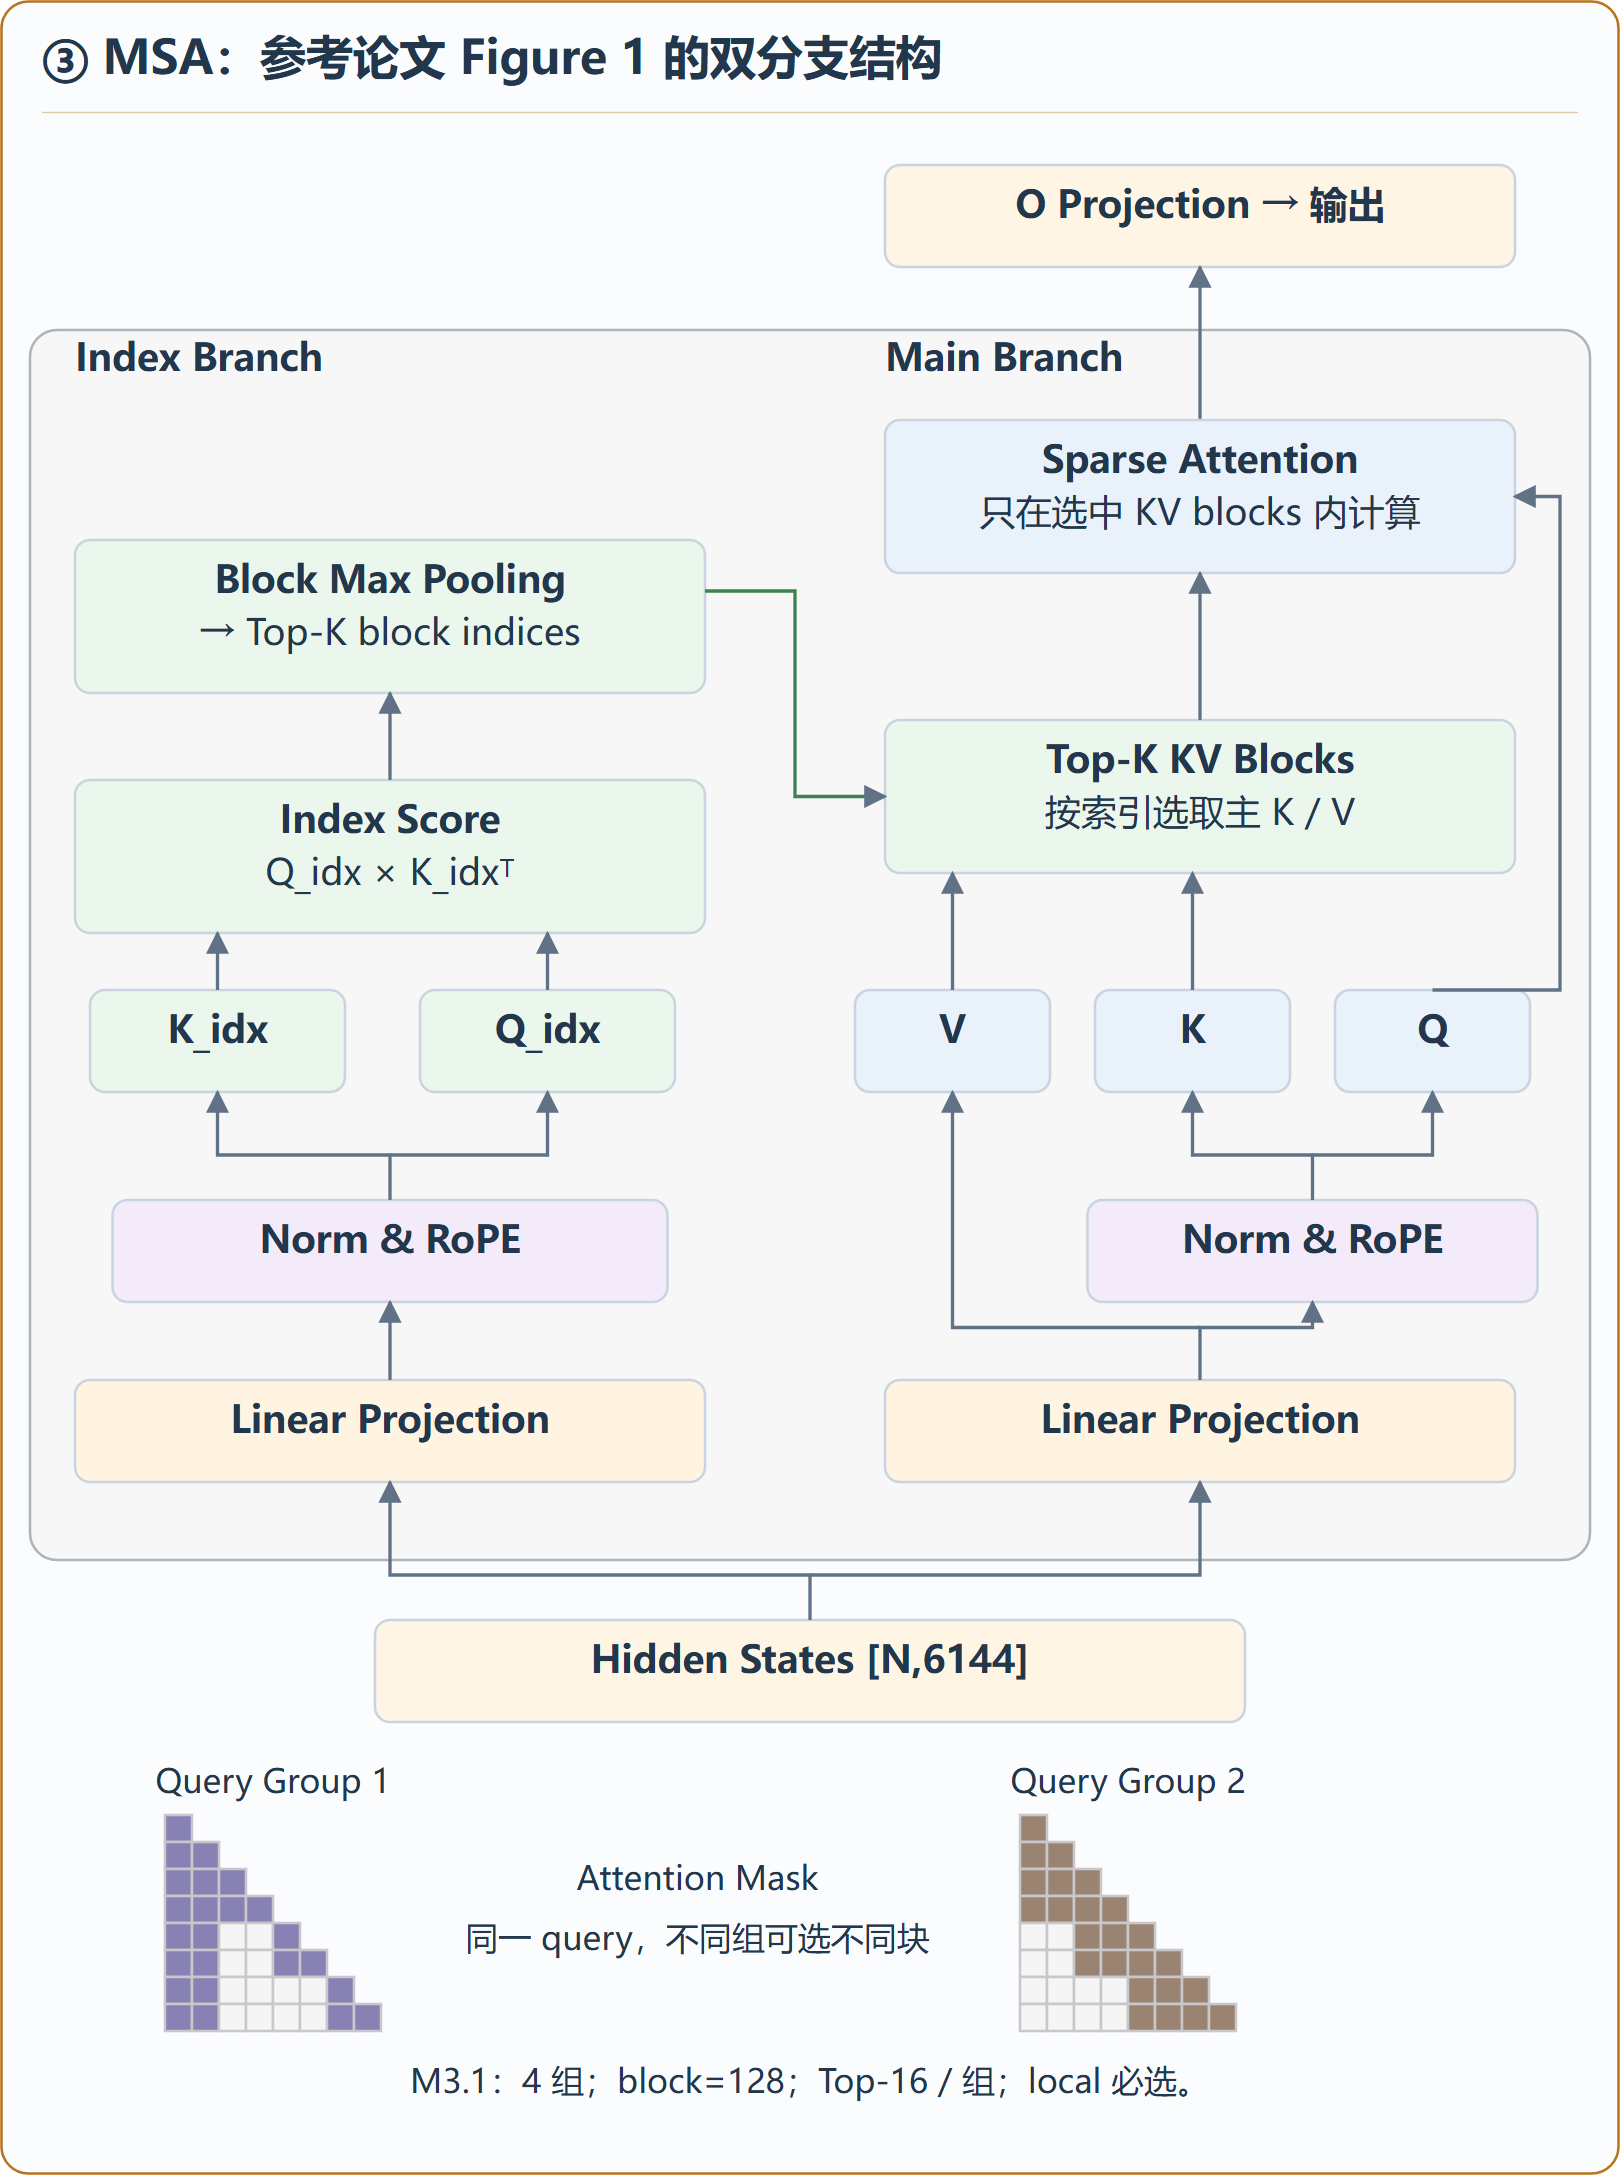
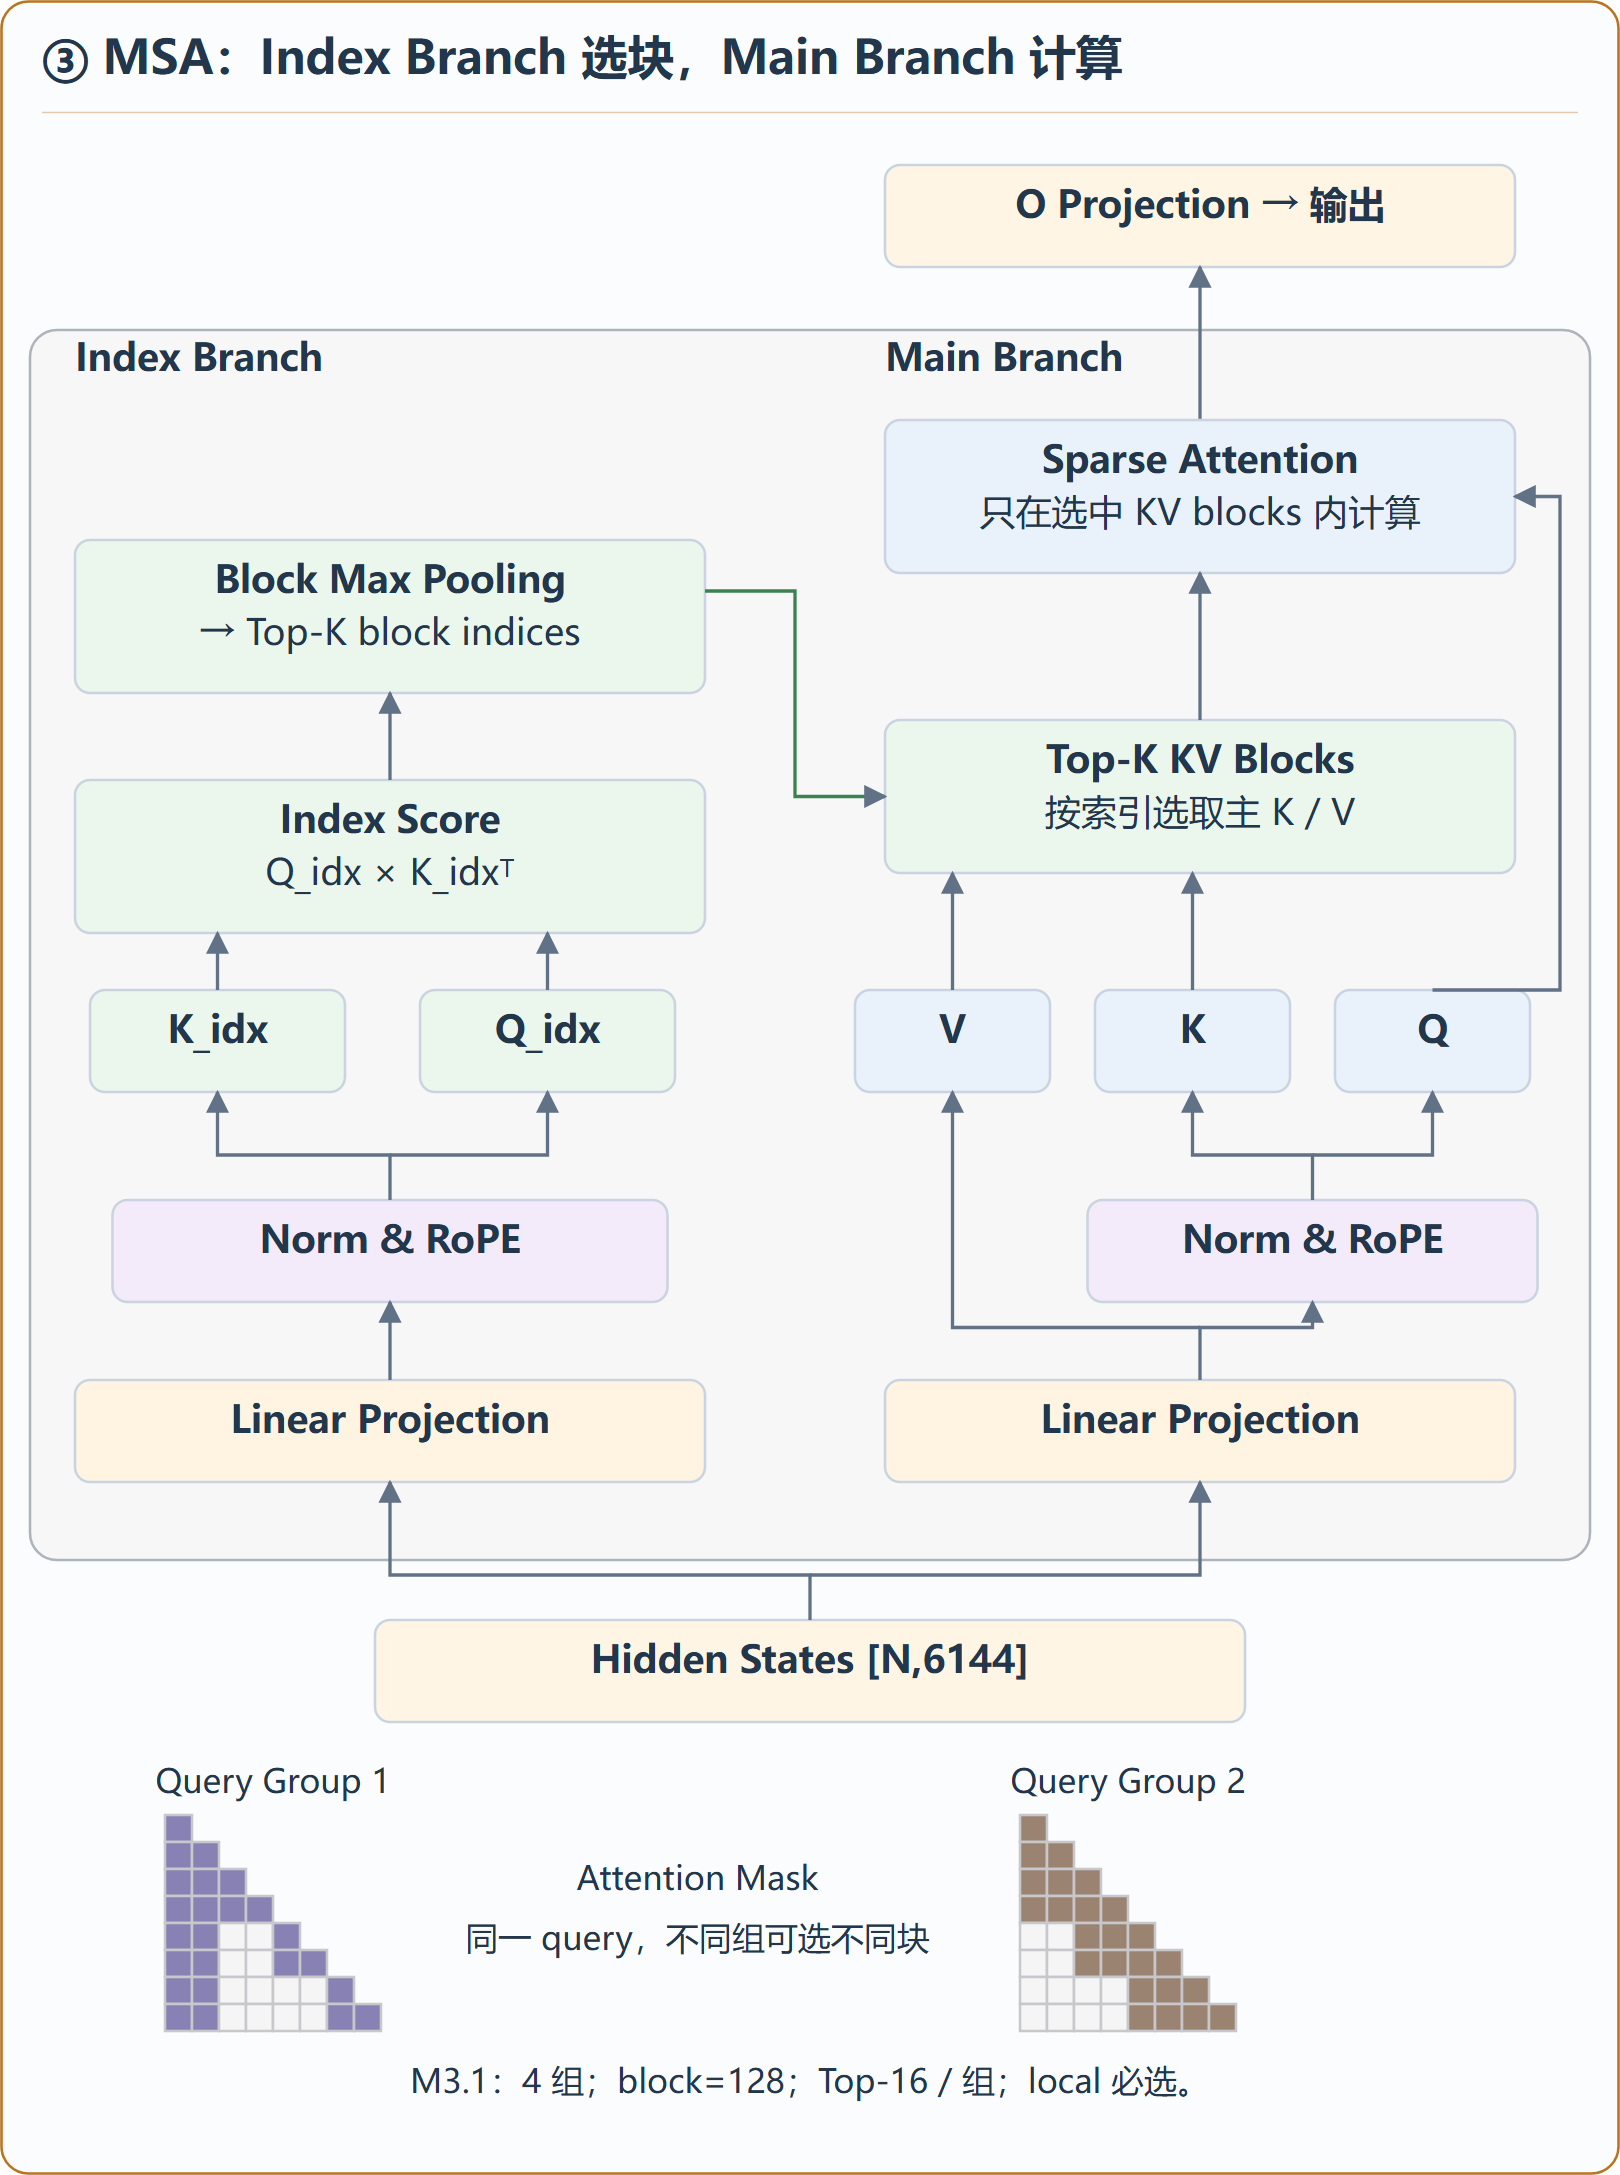
docs: add standalone MSA DSA comparison with explicit index branches

Changed region(s): [[0.1543, 0.0, 0.7099, 0.0616]]

diff --git a/minimax/minimax-m31-flash/architecture/draw_attention_comparison.py b/minimax/minimax-m31-flash/architecture/draw_attention_comparison.py
@@ -1,0 +1,92 @@
+"""Standalone DSA/MSA comparison with explicit Index and Main branches."""
+
+import json
+from pathlib import Path
+from diagram_primitives import Plate,STYLE
+
+ROOT=Path(__file__).resolve().parent
+W,H=2800,2250
+
+def panel(msa):
+    name='MSA / MiniMax-M3.1' if msa else 'DSA / DeepSeek-V3.2'
+    p=Plate(name,1300,1880,name,'orange' if msa else 'blue')
+    p.box(70,110,1160,[
+        'Main Branch：在选中的历史位置上计算 attention',
+        'GQA：每组 Q heads 使用各自选中的块' if msa else 'MLA / MQA：同一 query 的所有 Q heads 使用同一组选点',
+        '同组共享选块结果，不同组可以不同' if msa else '共享索引集合，不表示各 Q heads 的 attention 权重相同'],137)
+    p.rect(35,285,1230,1080,'#ffffff','#b7c2cf',14)
+    p.items[-1]=p.items[-1].replace('stroke-width="1.7"','stroke-width="1.7" stroke-dasharray="8 6"')
+    p.text(60,325,'Index Branch','node')
+    p.rect(70,355,1160,550,'#fbfcfe','#d0d8e2',10)
+    p.text(650,405,'选择单位：整个 block' if msa else '选择单位：单个 token','node','middle')
+    p.text(650,450,'示意采用相同预算：每个 Q head 最终读取 4 个历史位置','small','middle')
+    for row,y in enumerate([530,685]):
+        label=f'GQA组{row}' if msa else ('head 0' if row==0 else 'head 1…')
+        p.text(85,y+36,label,'small')
+        p.items[-1]=p.items[-1].replace('<text ','<text data-max-width="100" ')
+        selected=({2,3,8,9} if row==0 else {0,1,8,9}) if msa else {1,4,7,10}
+        color=('#dfb56e' if row==0 else '#a8bb8a') if msa else '#93b4d0'
+        if msa:
+            for block in range(6):
+                x=184+block*164
+                p.rect(x,y-12,152,86,'#ffffff','#98a4b5',8)
+                p.text(x+76,y+95,f'B{block}','small','middle')
+        for pos in range(12):
+            x=190+pos*82
+            p.rect(x,y,64,56,color if pos in selected else '#edf0f4')
+            p.text(x+32,y+36,f'{pos:02}','small','middle')
+    p.text(650,845,'每组各选 2 块 × 每块 2 token（教学示意）' if msa else '两行选中相同位置：一组 token 索引由各 Q heads 共用','small','middle')
+    p.arrow([(650,355),(650,247)])
+    p.box(230,1000,840,[
+        '每组独立评分 → 块内 Max Pooling' if msa else '多索引头点积 → ReLU → 加权聚合',
+        '先算 index Q · index K，再对块内位置取最大值' if msa else 'query 相关的权重把各索引头合成一个 token 分数',
+        '得到“每组、每历史块”的分数' if msa else '得到“每个历史 token”的一个分数'],137)
+    p.arrow([(650,1000),(650,905)])
+    p.text(685,965,'Top-K blocks' if msa else 'Top-K tokens','small')
+    p.box(230,1190,840,[
+        '独立 index Q/K 投影 → Norm & RoPE' if msa else 'Index Q/K 投影 + query 相关的 head weights',
+        'M3.1：4 个 index Q heads，共享 1 个 index K head' if msa else '多个索引头参与评分，随后聚合成一组选择结果'],102)
+    p.arrow([(650,1190),(650,1137)])
+    p.box(230,1480,840,['当前 query 的 hidden state + 历史上下文'],68)
+    p.arrow([(650,1480),(650,1292)])
+    p.box(70,1640,1160,[
+        '结构特点：按块、按 GQA 组选择' if msa else '结构特点：细粒度 token 选择',
+        'M3.1 实际配置：4 个组，每组 Top-16 个 128-token 块；local 必选。' if msa else '本图对比 V3.2 的 DSA：同一 query 共用一组 Top-K token 索引。',
+        '每块整段读取；不同组能够关注不同的历史区域。' if msa else '允许从不同历史区域挑出分散的单个 token。'],137,'#f3f6fa')
+    return p
+
+left,right=panel(False),panel(True)
+svg=[f'<svg xmlns="http://www.w3.org/2000/svg" width="{W}" height="{H}" viewBox="0 0 {W} {H}">',
+     f'<rect width="{W}" height="{H}" fill="white"/>',STYLE,
+     '<text x="1400" y="65" class="title" text-anchor="middle">DSA 与 MSA：Index Branch 到底选什么、由谁共享？</text>',
+     '<text x="1400" y="115" class="body" text-anchor="middle">自下向上：输入 → 独立索引评分 → Top-K 选择 → Main Branch；数字是历史位置编号</text>',
+     '<g transform="translate(60,170)">'+''.join(left.items)+'</g>',
+     '<g transform="translate(1440,170)">'+''.join(right.items)+'</g>',
+     '<text x="1400" y="2120" class="body" text-anchor="middle">共同点：两者都有 Index Branch；主注意力只在选中位置计算。区别：token / block，以及跨全部头共享 / 按 GQA 组共享。</text>',
+     '<text x="1400" y="2180" class="small" text-anchor="middle">图中 12 个历史位置、2-token 块和 4 个位置的预算仅用于等预算示意；不是模型实测。MSA 实际 block=128。未对比速度。</text></svg>']
+target=ROOT/'msa-vs-dsa.svg'
+target.write_text('\n'.join(svg),encoding='utf-8')
+
+def render_png():
+    import html,os,re,subprocess,tempfile
+    from PIL import Image
+    candidates=[Path(os.environ.get('PROGRAMFILES','C:/Program Files'))/'Google/Chrome/Application/chrome.exe',
+                Path(os.environ.get('PROGRAMFILES(X86)','C:/Program Files (x86)'))/'Microsoft/Edge/Application/msedge.exe']
+    browser=next(p for p in candidates if p.exists())
+    qa="""<script>const bad=[];document.querySelectorAll('text[data-max-width]').forEach(t=>{if(t.getBBox().width>+t.dataset.maxWidth)bad.push(t.textContent)});const p=document.createElement('pre');p.id='qa';p.textContent=JSON.stringify(bad);document.body.append(p)</script>"""
+    with tempfile.TemporaryDirectory(prefix='msa-dsa-') as td:
+        temp=Path(td);page=temp/'index.html'
+        page.write_text('<!doctype html><meta charset="utf-8"><style>body{margin:0}</style>'+''.join(svg)+qa,encoding='utf-8')
+        r=subprocess.run([str(browser),'--headless','--disable-gpu','--hide-scrollbars','--no-first-run',
+            '--user-data-dir='+str(temp/'profile'),'--force-device-scale-factor=1.5',f'--window-size={W},{H}',
+            '--screenshot='+str(ROOT/'msa-vs-dsa.png'),'--dump-dom',page.as_uri()],capture_output=True,text=True,encoding='utf-8',timeout=60,creationflags=getattr(subprocess,'CREATE_NO_WINDOW',0))
+        assert r.returncode==0,r.stderr[-1000:]
+        report=re.search(r'<pre id="qa">(.*?)</pre>',r.stdout,re.S)
+        assert report and not json.loads(html.unescape(report.group(1))),report.group(1) if report else 'No QA report'
+    im=Image.open(ROOT/'msa-vs-dsa.png');assert im.size==(4200,3375)
+    im.resize((1400,1125)).save(ROOT/'msa-vs-dsa-preview.png')
+    print('Standalone comparison rendered at 4200x3375; node text fits.')
+
+if __name__=='__main__':
+    import sys
+    if '--png' in sys.argv:render_png()

diff --git a/minimax/minimax-m31-flash/architecture/draw_mainline.py b/minimax/minimax-m31-flash/architecture/draw_mainline.py
@@ -73,7 +73,7 @@ p.text(50,177,'层内沿最后 6144 维计算；主 Q/K 和 index Q/K 则每 hea
 norm=p
 
 # MSA inset follows Figure 1 of arXiv:2606.13392v2, redrawn as SVG.
-p=Plate('03-attention-msa',1080,1450,'③ MSA：参考论文 Figure 1 的双分支结构','orange')
+p=Plate('03-attention-msa',1080,1450,'③ MSA：Index Branch 选块，Main Branch 计算','orange')
 p.rect(20,220,1040,820,'#f7f7f7','#adb4bb',18)
 p.text(50,247,'Index Branch','node')
 p.text(590,247,'Main Branch','node')

diff --git a/minimax/minimax-m31-flash/architecture/msa-vs-dsa.md b/minimax/minimax-m31-flash/architecture/msa-vs-dsa.md
@@ -1,0 +1,24 @@
+# MSA 与 DSA：Index Branch 到底选什么、由谁共享
+
+[高清 PNG 4200×3375](msa-vs-dsa.png) · [可编辑 SVG](msa-vs-dsa.svg) · [绘图源码](draw_attention_comparison.py)
+
+![MSA 与 DSA 双分支对照](msa-vs-dsa-preview.png)
+
+两边都按自下向上阅读，并明确保留 **Index Branch** 与 **Main Branch**：输入进入独立索引投影，Index Branch 评分并执行 Top-K；Main Branch 只在选中的历史位置上计算 attention。
+
+| 比较项 | DSA（这里指 DeepSeek-V3.2） | MSA（这里指 MiniMax-M3.1） |
+| --- | --- | --- |
+| 选择单位 | 单个历史 token | 整个历史 block |
+| 索引评分 | 多个索引头点积经 ReLU 后按 query 相关权重聚合 | 每个 GQA 组的 index Q/K 点积，块内取 max |
+| 选择结果共享 | 同一 query 的所有 Q heads 使用同一组 token 索引 | 每个 GQA 组独立选块，组内 Q heads 共用 |
+| 本模型主分支搭配 | MLA 的 MQA 模式 | GQA：64 个 Q heads / 4 个 KV heads |
+
+图中用 12 个历史位置、每块 2 个 token、每个 Q head 读取 4 个位置做等预算示意。左边各头读相同的离散位置；右边不同 GQA 组读不同的成块位置。图上的数字是位置编号，不是词表 ID，选中集合也不是实测。MSA 的实际配置为 block=128、每组 Top-16 个块并强制包含 local；图中的 2-token 块不能当成模型参数。
+
+“各头共享索引集合”不代表 attention 概率或输出相同；各 Q head 仍有自己的 query。两者都有 Index Branch，因此独立索引器与“先选再算”不是区分二者的充分条件。主要差别在选取粒度及共享范围，不能只凭此图推断速度或精度优劣。
+
+实现阅读入口：ycl `vllm-ascend-private` 的 `vllm_ascend/models/minimax_m3/minimax_m3.py` 中，`MiniMaxM3SparseAttention` 组装模块，`_run_sparse_attention` 执行缓存写入、Indexer 和 SparseImpl 调用；`msa_m3.py` 中分别实现 `AscendMiniMaxM3IndexerImpl` 与 `AscendMiniMaxM3SparseImpl`。具体行号见[前向详解](../model_analyze.md#162-本工作区实现)。
+
+资料来源：[MSA 的架构与 DSA 对比](https://arxiv.org/html/2606.13392v2#S6)、[DeepSeek-V3.2 的 DSA 定义和式 1](https://arxiv.org/html/2512.02556v1#S2.SS1)、[固定 M3.1 配置](sources/config.json)。图为独立结构解释，不复制原图，也不构成运行 trace。
+
+重建：在 `architecture` 目录运行 `python -B draw_attention_comparison.py --png`，需要已安装 Chrome/Edge 和 Pillow。
